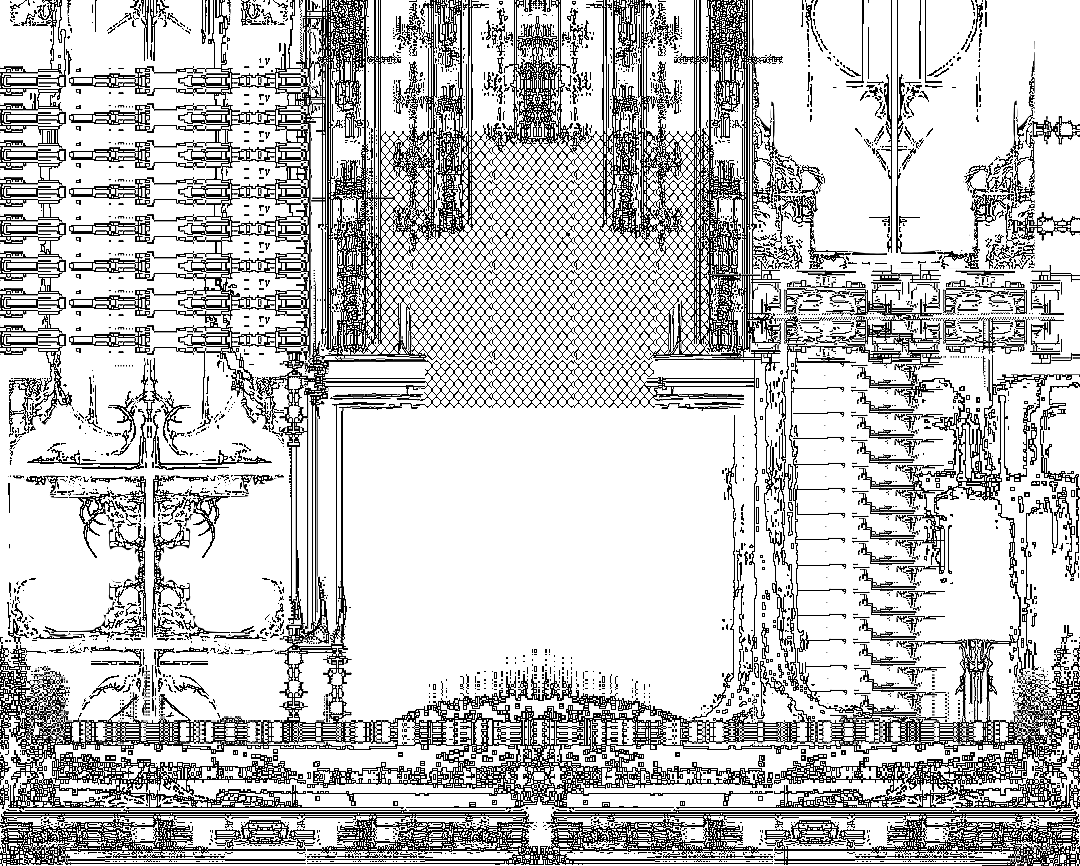
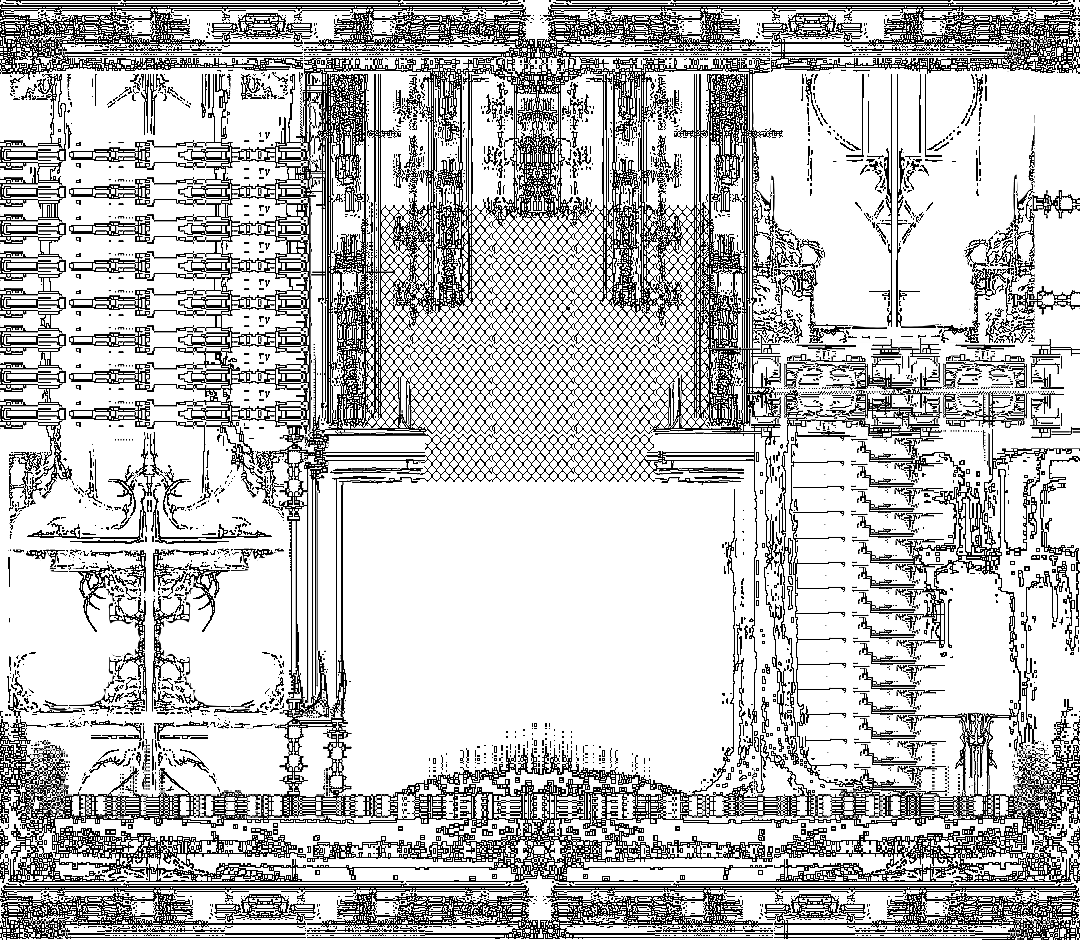
new

diff --git a/style.css b/style.css
@@ -105,6 +105,7 @@ button {
 .dungeon {
     position: relative;
     border-style: none double none double;
+    overflow: hidden;
 }
 
 #intro {
@@ -133,6 +134,19 @@ form {
     50% {transform: translateY(-20px);}
     100% {transform: translateY(0);}
 }
+
+@keyframes enterZoom {
+    0% {transform: scale(1) translate(0px, 100px);}
+    33% {transform: scale(2) translate(0px, 150px);}
+    66% {transform: scale(3) translate(0px, 180px);}
+    100% {transform: scale(4) translate(0px, 200px);}
+}
+
+#enter {
+    /*animation: enterZoom 2.5s steps(4) infinite;*/
+    overflow: hidden;
+}
+
 
 #text-in-frame {
     position: absolute;

diff --git a/index.html b/index.html
@@ -27,7 +27,7 @@
         
      <div class="dungeon"> 
           <button id="enterButton">Enter the dungeon</button>
-          <img src="entry.png">
+          <img id="enter" src="entry.png">
       </div>
      <div class="GUI"> <p>game intro</p> </div>
         
